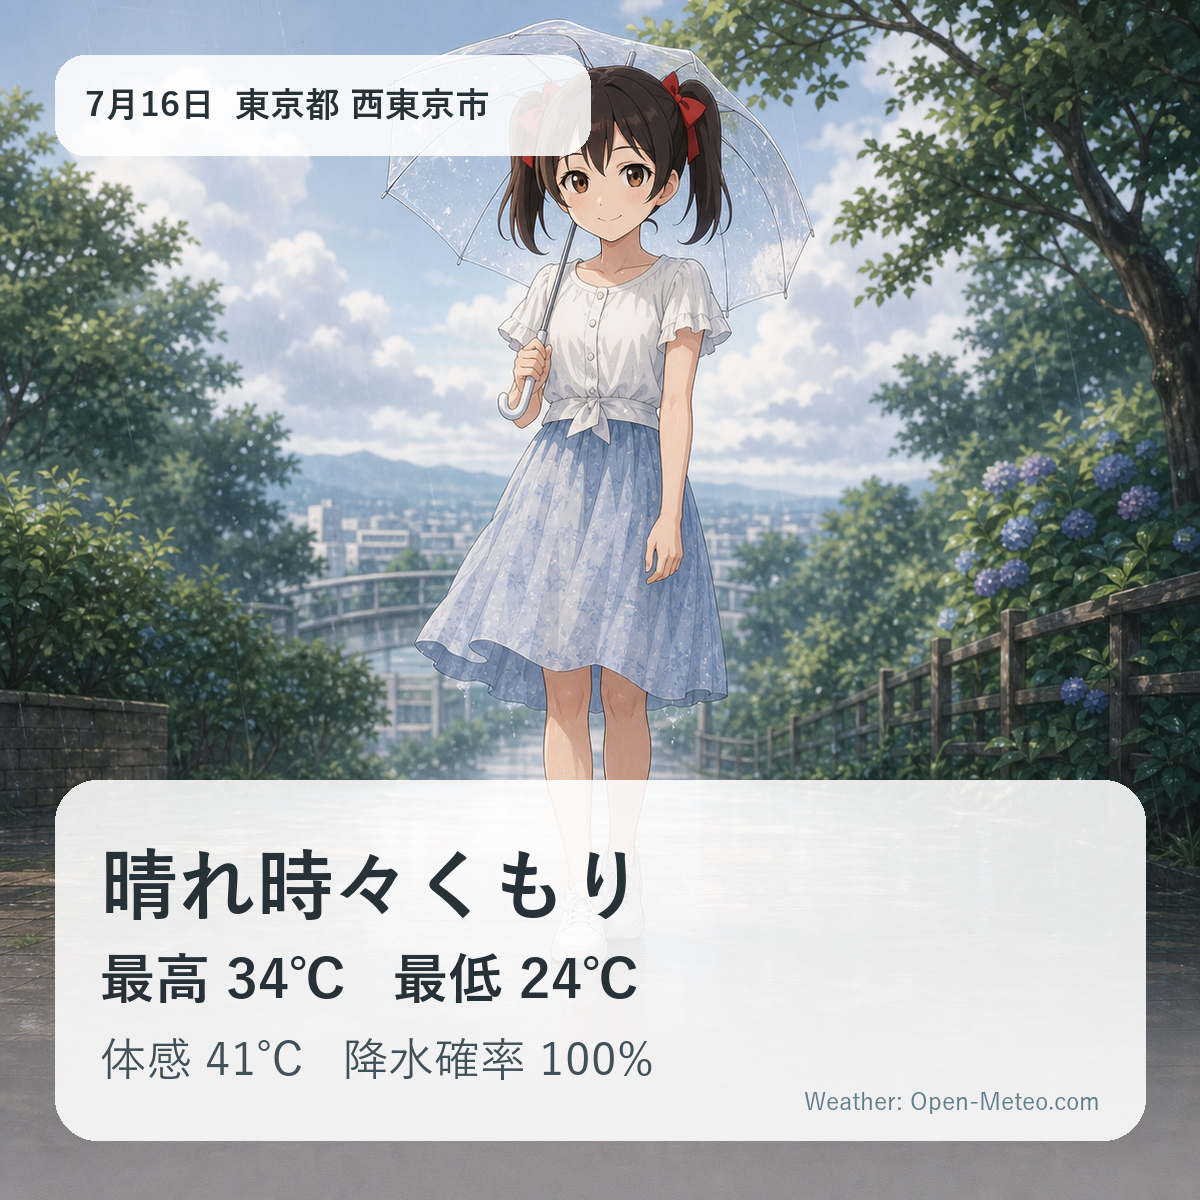
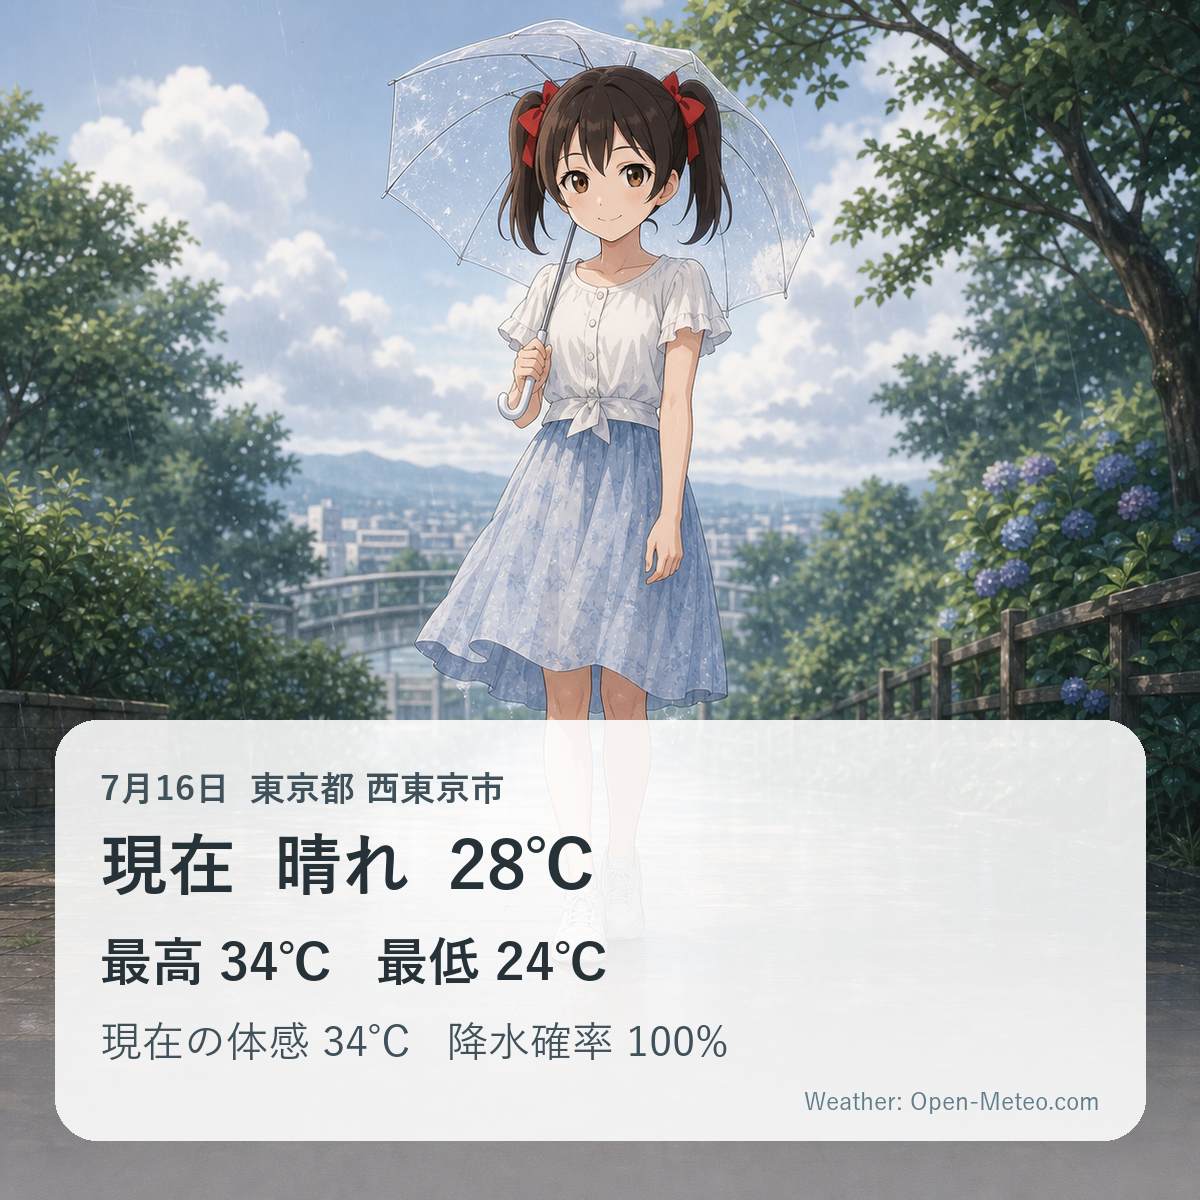
fix: show current weather below character

Changed region(s): [[0.0308, 0.5858, 0.9558, 0.8942], [0.0308, 0.0308, 0.4933, 0.1542]]

diff --git a/weather_card.py b/weather_card.py
@@ -61,15 +61,20 @@ def fetch_weather() -> dict:
                 "wind_speed_10m_max",
             ]
         ),
+        "current": "weather_code,temperature_2m,apparent_temperature,precipitation",
         "timezone": "Asia/Tokyo",
         "forecast_days": 1,
     }
     response = requests.get(FORECAST_URL, params=params, timeout=30)
     response.raise_for_status()
-    daily = response.json()["daily"]
-    return {key: values[0] for key, values in daily.items() if key != "time"} | {
-        "date": daily["time"][0]
-    }
+    payload = response.json()
+    daily = payload["daily"]
+    current = payload.get("current", {})
+    return (
+        {key: values[0] for key, values in daily.items() if key != "time"}
+        | {"date": daily["time"][0]}
+        | {f"current_{key}": value for key, value in current.items() if key != "time"}
+    )
 
 
 def outfit_key(weather: dict) -> str:
@@ -132,24 +137,29 @@ def base_image(outfit: Path | None) -> Image.Image:
     return image
 
 
+def current_weather_summary(weather: dict) -> tuple[str, int, int]:
+    code = int(weather.get("current_weather_code", weather["weather_code"]))
+    temperature = round(float(weather.get("current_temperature_2m", weather["temperature_2m_max"])))
+    apparent = round(float(weather.get("current_apparent_temperature", weather["apparent_temperature_max"])))
+    return WEATHER_LABELS.get(code, "天気情報"), temperature, apparent
+
+
 def create_card(weather: dict, outfit: Path | None, output: Path) -> None:
     image = base_image(outfit).convert("RGBA")
     overlay = Image.new("RGBA", image.size, (0, 0, 0, 0))
     draw = ImageDraw.Draw(overlay)
-    draw.rounded_rectangle((55, 780, 1145, 1140), radius=42, fill=(255, 255, 255, 225))
-    draw.rounded_rectangle((55, 55, 590, 155), radius=30, fill=(255, 255, 255, 220))
+    draw.rounded_rectangle((55, 720, 1145, 1140), radius=42, fill=(255, 255, 255, 225))
 
-    code = int(weather["weather_code"])
     high = round(float(weather["temperature_2m_max"]))
     low = round(float(weather["temperature_2m_min"]))
-    feels = round(float(weather["apparent_temperature_max"]))
+    current_label, current_temperature, current_apparent = current_weather_summary(weather)
     rain = round(float(weather["precipitation_probability_max"] or 0))
     display_date = date.fromisoformat(weather["date"])
 
-    draw.text((85, 105), f"{display_date.month}月{display_date.day}日  {LOCATION}", font=font(35, True), fill="#263238", anchor="lm")
-    draw.text((100, 845), WEATHER_LABELS.get(code, "天気情報"), font=font(78, True), fill="#263238")
-    draw.text((100, 950), f"最高 {high}℃   最低 {low}℃", font=font(55, True), fill="#263238")
-    draw.text((100, 1035), f"体感 {feels}℃   降水確率 {rain}%", font=font(46), fill="#40515a")
+    draw.text((100, 770), f"{display_date.month}月{display_date.day}日  {LOCATION}", font=font(35, True), fill="#40515a")
+    draw.text((100, 830), f"現在  {current_label}  {current_temperature}℃", font=font(68, True), fill="#263238")
+    draw.text((100, 935), f"最高 {high}℃   最低 {low}℃", font=font(52, True), fill="#263238")
+    draw.text((100, 1020), f"現在の体感 {current_apparent}℃   降水確率 {rain}%", font=font(42), fill="#40515a")
     draw.text((1100, 1110), "Weather: Open-Meteo.com", font=font(24), fill="#607d8b", anchor="rs")
 
     output.parent.mkdir(parents=True, exist_ok=True)

diff --git a/tests/test_weather_card.py b/tests/test_weather_card.py
@@ -1,0 +1,30 @@
+from __future__ import annotations
+
+import unittest
+
+from weather_card import current_weather_summary
+
+
+class CurrentWeatherSummaryTests(unittest.TestCase):
+    def test_uses_current_observation(self) -> None:
+        weather = {
+            "weather_code": 2,
+            "temperature_2m_max": 34,
+            "apparent_temperature_max": 41,
+            "current_weather_code": 63,
+            "current_temperature_2m": 26.4,
+            "current_apparent_temperature": 29.2,
+        }
+        self.assertEqual(current_weather_summary(weather), ("雨", 26, 29))
+
+    def test_falls_back_to_daily_values(self) -> None:
+        weather = {
+            "weather_code": 2,
+            "temperature_2m_max": 34,
+            "apparent_temperature_max": 41,
+        }
+        self.assertEqual(current_weather_summary(weather), ("晴れ時々くもり", 34, 41))
+
+
+if __name__ == "__main__":
+    unittest.main()
